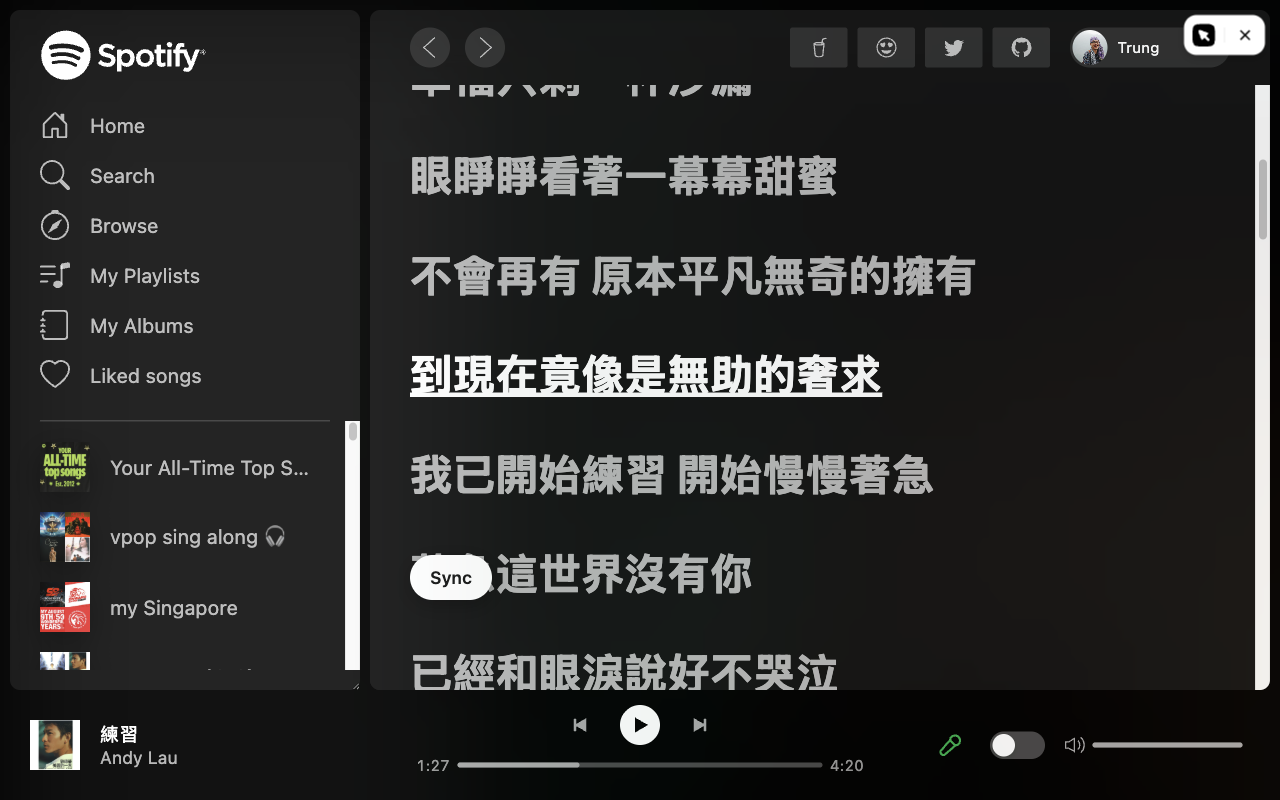
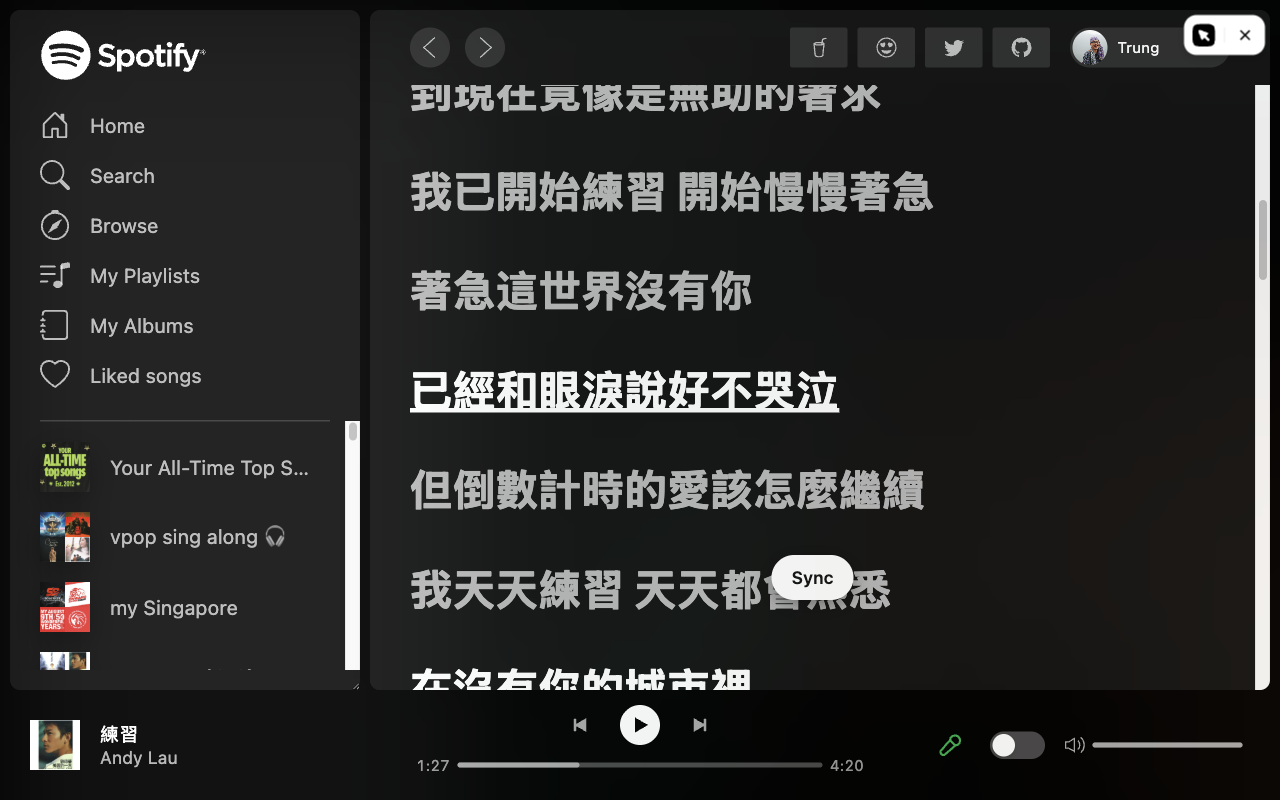
fix(lyrics): center the Sync pill horizontally
Removing the icon dropped 'flex' from the pill, so the button fell back
to display:inline-block and mx-auto no longer centered it (collapsed
left). Set display:block so the auto margins center the fit-content pill.

diff --git a/libs/web/lyrics/ui/lyrics-view/src/lib/lyrics-view.component.scss b/libs/web/lyrics/ui/lyrics-view/src/lib/lyrics-view.component.scss
@@ -47,7 +47,7 @@
 }
 
 .sync-pill {
-  @apply sticky px-4 py-2 mx-auto rounded-full text-sm font-semibold;
+  @apply sticky block px-4 py-2 mx-auto rounded-full text-sm font-semibold;
   bottom: 1.5rem;
   width: fit-content;
   color: rgb(var(--background-baseline));